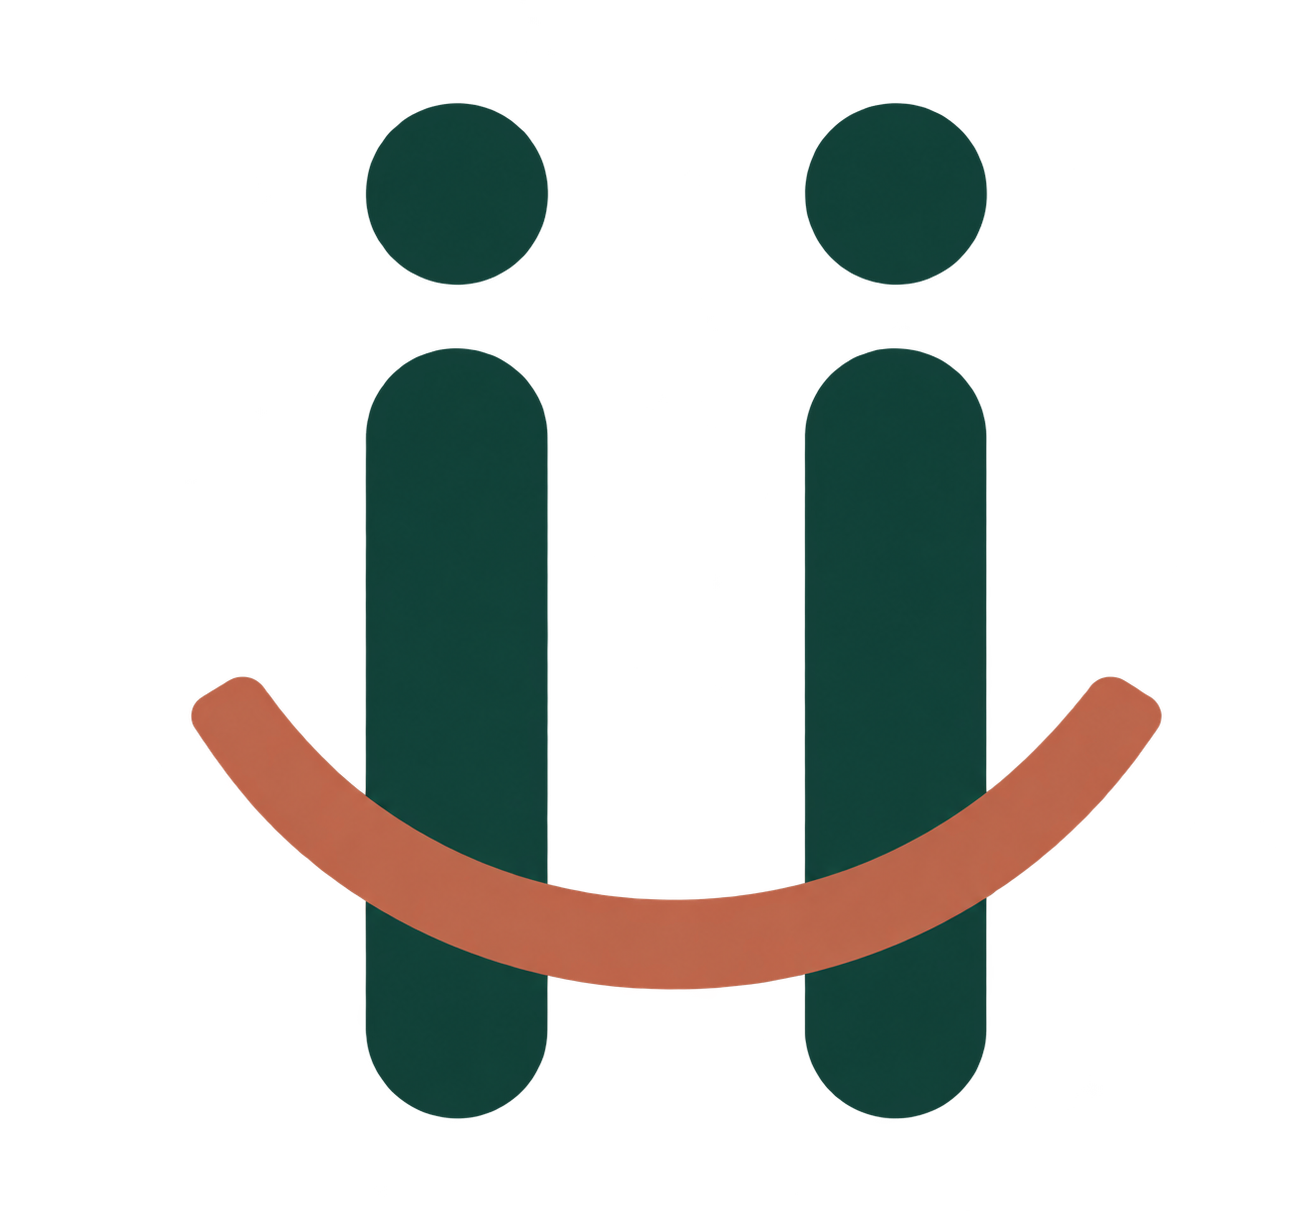
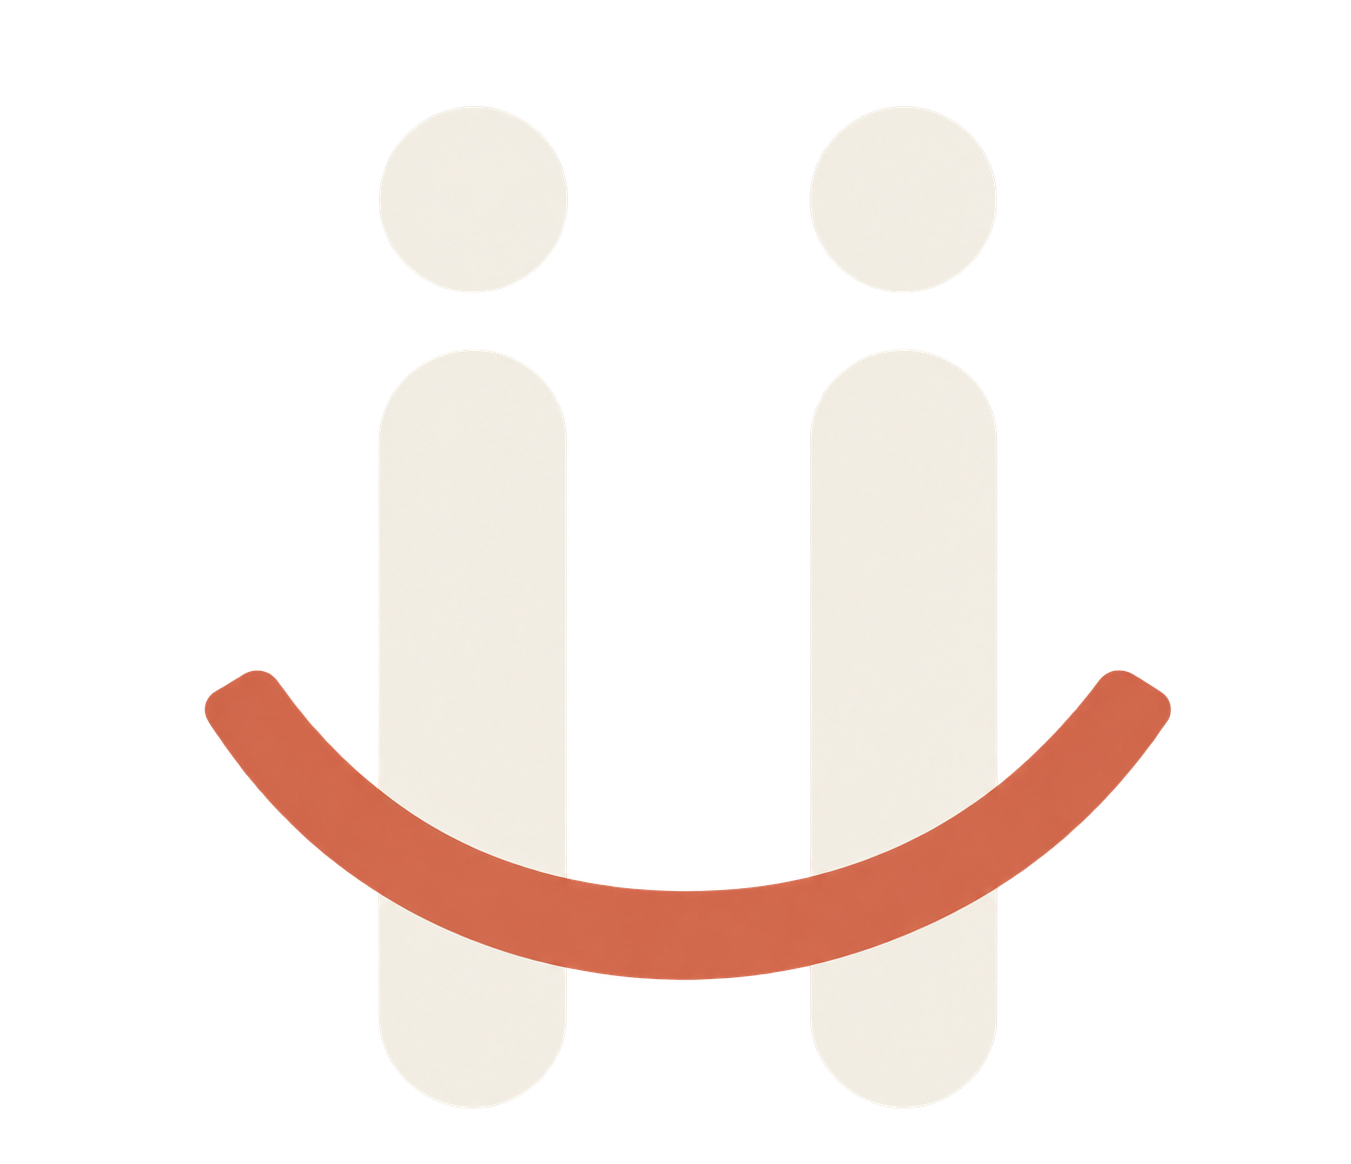
feat(brand): atualiza monograma e adiciona fundo branco circular na sidebar
- Substitui public/images/monograma.png pela nova arte
- Sidebar: monograma com rounded-full bg-white p-0.5 para destacar
  sobre o fundo verde

Claude-Session: https://claude.ai/code/session_01Sora3goeNsZiUvyARkpYiN

diff --git a/src/components/layout/sidebar.tsx b/src/components/layout/sidebar.tsx
@@ -23,7 +23,7 @@ export function Sidebar({ onNavigate }: SidebarProps) {
           width={36}
           height={36}
           priority
-          className="shrink-0"
+          className="shrink-0 rounded-full bg-white p-0.5"
         />
         <span className="text-base font-bold tracking-tight text-white">
           MIIRTUS OS
